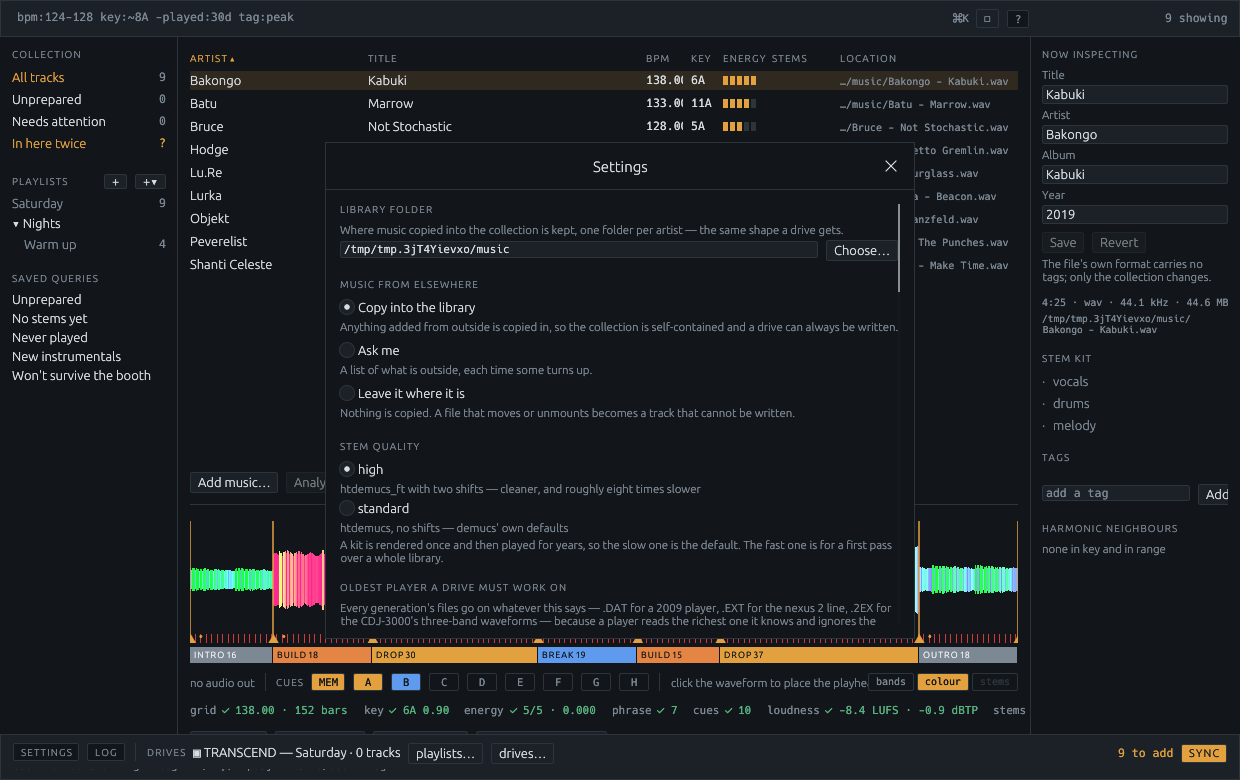
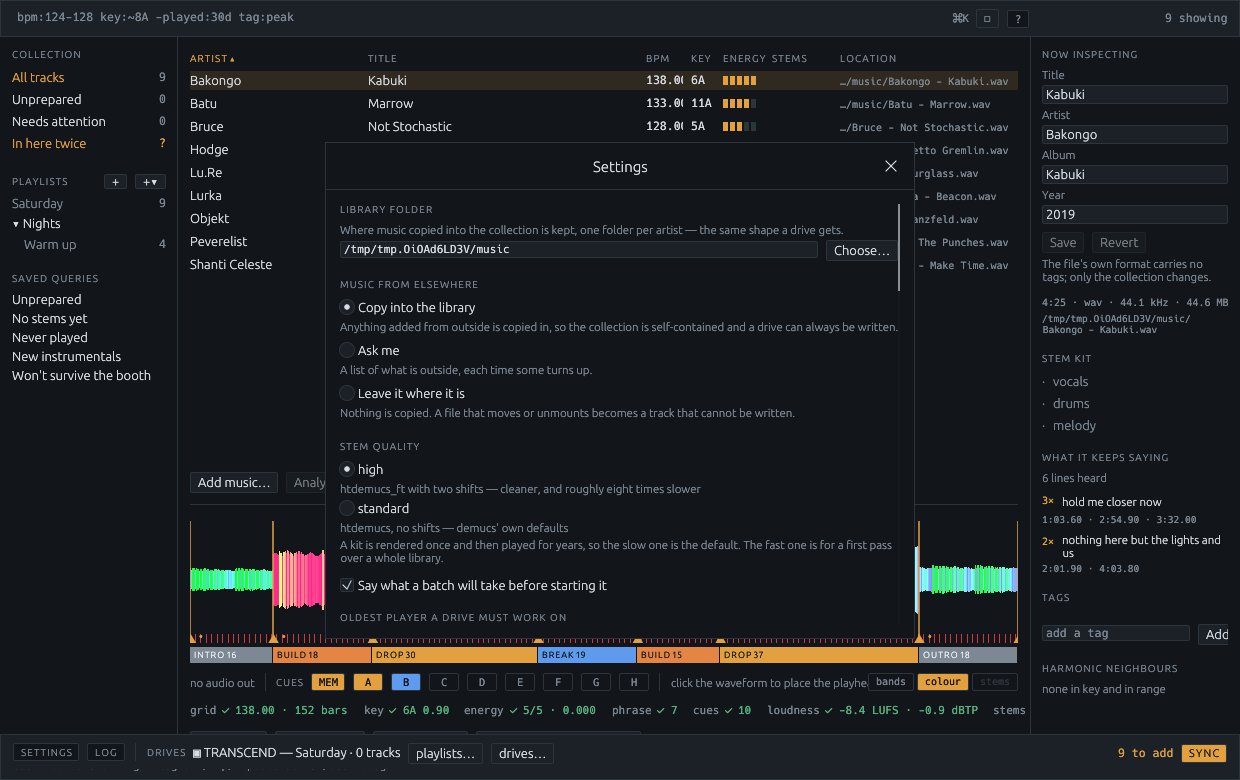
Re-take the pictures and correct what the READMEs now get wrong
The window has a section it did not have — what a track keeps saying —
and the demo collection the screenshots are taken of now has words in
it, so every shot was of a window that no longer exists.

Two passages had gone stale with the code. Shift turns every verb on the
batch strip round now, not only Analyse. And the eight hot cues are
shared between the arrangement and the words rather than ranked against
each other, with a track that repeats nothing filling its spare buttons
from the lines it has.

diff --git a/booth/README.md b/booth/README.md
@@ -161,14 +161,24 @@ is different for a first pass and a re-run. Re-analysing is the same code path
 as analysing — there is no separate re-do, which is how the two would come to
 disagree.
 
-**Hold shift and the batch Analyse button becomes Re-analyse**, acting on
-everything showing rather than only the tracks that have never been done. That
-is the button to reach for when what analysis produces has changed — a new
-waveform, a different grid — and every track in the collection is holding an
-answer from the old code. The label changes with the key, not just the hover
-text, because the two act on different numbers of tracks and a button has to
-say what pressing it will do. The query bar still decides what the batch is, so
-narrowing the list narrows the work.
+**Hold shift and every verb on the batch strip turns round**: Analyse becomes
+Re-analyse, Identify becomes Re-identify, Stems becomes Re-stem and Words
+becomes Re-read, each acting on everything showing rather than only the tracks
+that have never been done. That is what to reach for when what one of them
+produces has changed — a new waveform, a different grid, a better recogniser —
+and every track in the collection is holding an answer from the old code.
+Without it a track that has been through a job is simply not counted, so a
+collection that has had everything done to it reads "Stems 0" and offers no way
+to ask again.
+
+The labels change with the key, not just the hover text, because each pair acts
+on a different number of tracks and a button has to say what pressing it will
+do. The disabled hover says so too, which is the case it most needs saying in:
+a finished collection is exactly the one with no enabled button to hover over.
+The query bar still decides what the batch is, so narrowing the list narrows
+the work — and so does picking tracks out, which is most of what a selection is
+for. Check keeps shift for the thorough read it already meant: a check is
+always done over, so there is nothing for it to skip.
 
 Right-clicking does not move the selection, and the menu names the track it will
 act on. A stem companion offers only play and copy-path: it is a file its parent
@@ -781,14 +791,28 @@ lines get a cue at all: the hook, a second line and a tag is already generous,
 and everything past that is a slot taken from a drop.
 
 Around them go **where the singing starts** and **the start of every phrase** the
-arrangement analysis found — intro, build, break, drop, outro. A player holds
-eight hot cues and a busy track offers more than eight moments, so they are
-ranked: the hook outranks even the drop, because a drop can be found by looking
-at the waveform and the line the crowd sings cannot be found by looking at
-anything. The other lines sit below the breakdowns, so the arrangement keeps the
-slots the words give back. Two moments that land on top of each other become one
-cue, and it keeps the words: a drop that is also where a line falls says which
-line.
+arrangement analysis found — intro, build, break, drop, outro.
+
+A player holds eight hot cues and a busy track offers more than eight moments,
+so **the buttons are shared rather than ranked against each other**: four to
+the arrangement, four to the words, and then whatever the other kind did not
+want. They are two different ways of finding your place in a record — the drop
+is where the floor moves and the hook is where the room sings — and ranking
+them together produced sets that were all of one or all of the other. Neither
+share is held open: an instrumental gets all eight for its sections. Within
+each share they are ranked, so the hook takes the words' first slot and the
+drop the arrangement's.
+
+**A track that repeats nothing still comes back cued.** A rap, a live take, a
+record with one verse and no chorus has no hook and no refrains, and its lines
+are what it has, so they fill the spare buttons — in time order, spread through
+the record rather than taken from the front, because four cues in the first
+ninety seconds map a verse and not a track. What nothing was found for stays
+empty: an empty button says "nothing here" and a made-up one says the wrong
+thing in a booth.
+
+Two moments that land on top of each other become one cue, and it keeps the
+words: a drop that is also where a line falls says which line.
 
 Cues from the words are rounded **down** to the beat rather than to the nearest
 one. A sung line rarely starts on the beat — a pickup is the whole point of a

diff --git a/README.md b/README.md
@@ -25,11 +25,17 @@ with a free key.
   against the files it describes.
 - **Listens to every track.** Tempo, beat grid, key, phrases, cue points and the colour waveforms
   a player draws, all measured locally. No analysis step on the player, no waiting in the booth.
+  A record at one tempo is gridded at one tempo — eight beats from anywhere in it are eight beats
+  from anywhere else — and one that really moves is gridded moving.
 - **Levels them.** EBU R128 loudness normalisation, by re-encoding or by ReplayGain tags with the
   audio left untouched.
 - **Names them.** Acoustic fingerprinting through AcoustID and MusicBrainz, and — for the white
   labels and promos no database has heard of — what the file's own path says it is.
 - **Splits them.** Vocals, melody and drums as separate stems, rendered ahead of time.
+- **Reads the words.** The vocal stem goes through a speech recogniser, and what comes back is
+  read for repetition: the line the room sings becomes a cue, every time it comes round becomes a
+  marker that says which line it is, and the whole of it is in the panel — so months later you
+  know which record this is from the thing you actually remember about it.
 - **Writes drives a player will open.** Both on-drive databases from one collection, so they
   cannot disagree about what is on the stick, with everything read back and checked afterwards.
   Every generation's analysis files go on — `.DAT`, `.EXT` and `.2EX` — so one stick works from
